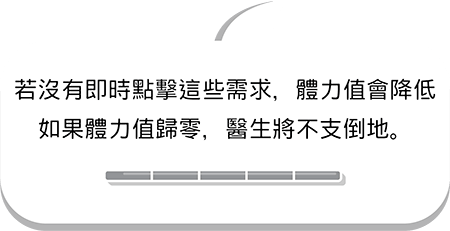
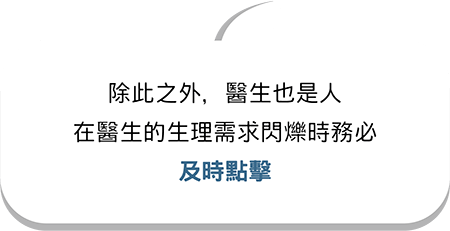
update tutorial; add start info and click info

Changed region(s): [[0.0311, 0.3333, 0.9644, 0.4545], [0.0622, 0.4848, 0.9022, 0.6364], [0.2178, 0.6667, 0.7778, 0.8182]]

diff --git a/index.js b/index.js
@@ -1,1 +1,1 @@
-var ref$,w,h,patw,path,of1x,of1y,dpw,dph,x$,mouse;ref$=[1170,658],w=ref$[0],h=ref$[1],ref$=[193,278],patw=ref$[0],path=ref$[1],ref$=[298,273],of1x=ref$[0],of1y=ref$[1],ref$=[59,20],dpw=ref$[0],dph=ref$[1],x$=angular.module("ERGame",[]),x$.controller("ERGame",["$scope","$interval","$timeout"].concat(function(t,e,n){var r,i,a,o,s,u,c,d,l,p,h,f,g,m,y,v,w,x;for(r=[],i=0;12>i;++i)a=i,r.push([a%4,parseInt(a/4)]);return t.list=r,t.danger=!1,t.pixel={scene:{w:1170,h:658},sprite:{size:[{w:0,h:0},{w:101,h:142},{w:108,h:229},{w:108,h:229},{w:291,h:245},{w:316,h:269},{w:105,h:196},{w:146,h:239},{w:98,h:60},{w:306,h:298},{w:191,h:240},{w:104,h:136},{w:238,h:184}],points:[{x:591,y:-19,type:6}].concat([{x:317,y:2,type:5}],[{x:687,y:-36,type:7}],[{x:507,y:54,type:9,variant:1}],[{x:249,y:184,type:11}],function(){var t,e,n=[];for(t=0;3>t;++t)for(o=t,e=0;4>e;++e)s=e,n.push({x:293+59*s+-127*o,y:222+20*s+47*o,type:1,variant:0,active:1});return n}(),[{x:857,y:100,type:4,variant:0,active:1}],[{x:870,y:272,type:12}],function(){var t,e=[];for(t=0;5>t;++t)a=t,e.push({x:749+66*a,y:227+24*a,type:2,variant:0,active:1});return e}(),[{x:623,y:279,type:3,variant:0,active:1},{x:520,y:341,type:10},{x:730,y:387,type:4,variant:0,active:1},{x:335,y:387,type:4,variant:0,active:1},{x:493,y:418,type:3,variant:0,active:1},{x:678,y:418,type:2,variant:0,active:1}])}},t.percent={sprite:{size:function(){var e,n,r,i=[];for(e=0,r=(n=t.pixel.sprite.size).length;r>e;++e)u=n[e],i.push({w:100*u.w/t.pixel.scene.w,h:100*u.h/t.pixel.scene.h});return i}(),points:function(){var e,n,r,i=[];for(e=0,r=(n=t.pixel.sprite.points).length;r>e;++e)u=n[e],i.push({x:100*u.x/t.pixel.scene.w,y:100*u.y/t.pixel.scene.h,type:u.type,variant:u.variant,active:u.active});return i}()}},t.rebuild=function(e){var n,r,i,a=[];for(n=0,i=(r=t.percent.sprite.points).length;i>n;++n)e=r[n],a.push(e.cls=["it-"+e.type+"-"+(e.variant||0)+"-"+(e.active||0)]);return a},t.game={state:0,over:function(){return this.setState(4),n(function(){var e;return e=parseInt(t.doctor.score.value/10),e>=6&&e--,t.doctor.rank=e},500)},setState:function(t){return this.state=t},start:function(){return this.setState(2),t.audio.bk()},reset:function(){return $("#wheel").css({display:"none"}),t.patient.reset(),t.doctor.reset(),t.supply.reset(),t.mouse.reset(),t.audio.reset(),t.rebuild(),t.madmax=0,t.dialog.toggle(null,!1),this.state=0},countdown:{handler:null,value:0,count:function(){var e=this;return this.value=this.value-1,this.value>0&&t.audio["count"+(1===this.value?2:1)](),this.value?n(function(){return e.count()},650):(t.game.setState(2),t.audio.bk())},start:function(){return t.game.setState(5),this.value=5,this.count()}}},t.doctor={sprite:t.percent.sprite.points.filter(function(t){return 9===t.type})[0],handler:null,energy:1,faint:!1,demading:0,chance:5,hurting:0,draining:0,rank:0,drain:function(){var e;return e=this,e.energy-=.2,e.energy>=0||(e.energy=0),e.draining=1,t.doctor.energy<=1e-4?(t.doctor.faint=!0,t.doctor.demading=0):void 0},fail:function(){var e;return e=this,e.setMood(7),e.chance-=1,e.chance>=0||(e.chance=0),e.hurting=1,this.chance<=0&&t.game.over(),t.audio.die()},reset:function(){return this.rank=0,this.energy=1,this.faint=!1,this.chance=5,this.hurting=0,this.draining=0,this.handler&&n.cancel(this.handler),this.score.value=0,this.score.digit=[0,0,0,0],this.setMood(1)},score:{digit:[0,0,0,0],value:0},resetLater:function(){var e=this;return this.handler&&n.cancel(this.handler),this.handler=n(function(){return e.setMood(1),e.handler=null,t.rebuild()},1e3)},setMood:function(t){return this.sprite.variant=t,t>1?this.resetLater():void 0}},t.$watch("doctor.score.value",function(){var e,n,r,i=[];for(e=t.doctor.score,n=0;4>n;++n)r=n,i.push(e.digit[3-r]=parseInt(e.value/Math.pow(10,r))%Math.pow(10,r+1));return i}),t.supply={sprite:t.percent.sprite.points.filter(function(t){var e;return 5===(e=t.type)||6===e||7===e}),reset:function(){var t,e,n,r,i=[];for(t=0,n=(e=this.sprite).length;n>t;++t)r=e[t],i.push((r.active=0,r.countdown=-1,r));return i},active:function(t,e){var n,r,i;return null==e&&(e=!0),n=null==t?parseInt(Math.random()*this.sprite.length):t,e?this.sprite[n].active?void 0:(this.sprite[n].active=1,this.sprite[n].countdown=1):(this.sprite[n].active=0,i=(r=this.sprite[n]).countdown,delete r.countdown,i)}},t.patient={urgent:0,updateUrgent:function(){return this.urgent=t.percent.sprite.points.filter(function(t){return 1===t.type&&3===t.variant}).length},reset:function(){var e,n,r,i,a=[];for(e=t.percent.sprite.points.filter(function(t){return t.type>=1&&t.type<=4}),n=0,r=e.length;r>n;++n)i=e[n],a.push((i.variant=0,i.mad=0,i.life=1,i));return a},add:function(e,n,r){var i,a,o,s,u,c;return i=t.percent.sprite.points.filter(function(t){return t.type===e&&0===t.variant}),0!==i.length?(a=parseInt(3*Math.random()+1),1===e?(o=Math.random(),a=o<t.config.cur.patprob[0]?1:o<t.config.cur.patprob[1]?2:3,t.audio.born()):a=parseInt(2*Math.random()+1),e>1&&(2>=a||(a=2)),null!=n&&(a=n),s=null!=r?r:parseInt(Math.random()*i.length),u=i[s],u.variant=a,1===u.type&&3===u.variant&&this.urgent++,1===u.type&&(u.life=1),(2===(c=u.type)||3===c||4===c)&&(u.mad=0),t.rebuild()):void 0}},t.config={cur:{pat:.05,sup:.01,patprob:[.6,.95],mad:.001,supdelay:.015},setting:[{pat:.02,sup:.01,patprob:[.6,.95],mad:.001,supdelay:.015},{pat:.07,sup:.04,patprob:[.5,.8],mad:.003,supdelay:.02},{pat:.15,sup:.11,patprob:[.25,.3],mad:.006,supdelay:.025},{pat:.22,sup:.15,patprob:[.1,.25],mad:.008,supdelay:.03}]},t.mouse={x:0,y:0,target:null,reset:function(){return this.target=null},lock:function(){return this.isLocked=!0},unlock:function(){return this.isLocked=!1},timestamp:0,isPalOn:!1,down:function(e,n){var r,i,a,o,s,u,d,l,p,h,f,g,m;if(!c()){if(t.madmax||t.doctor.faint)return t.demad(e);if(!this.isLocked&&!this.isPalOn&&(r=$("#wrapper").offset(),i=[e.clientX||e.pageX,e.clientY||e.pageY],a=i[0],o=i[1],i=[a-r.left,o-r.top],this.x=i[0],this.y=i[1],i=i,s=i[0],u=i[1],d=1024*s/$("#wrapper").width(),l=576*u/$("#wrapper").height(),n=t.hitmask.resolve(d,l))){if(1===n.type){if(0===n.variant)return;for(p=t.percent.sprite.points.filter(function(t){return 1===t.type}),h=0,f=0,g=p.length;g>f;++f)m=p[f],m.variant>h&&(h=m.variant);if(3===h&&n.variant<h)return void(this.target=null)}if(this.target=n,n&&1===n.type)return $("#wheel").css({display:"block",top:u+"px",left:s+"px"}),t.audio.blop(),t.rebuild(),this.timestamp=(new Date).getTime(),this.isPalOn=!0}}},up:function(e){var n,r=this;if(!c()&&!(this.isLocked||t.madmax||t.doctor.faint||(n=(new Date).getTime(),n-this.timestamp<100)))return setTimeout(function(){var n,i,a,o,s,u,c,d,l;return r.isPalOn=!1,$("#wheel").css({display:"none"}),n=$("#wrapper").offset(),i=[e.clientX||e.pageX,e.clientY||e.pageY],a=i[0],o=i[1],i=[a-r.x-n.left,o-r.y-n.top],s=i[0],u=i[1],c=360*Math.acos(s/Math.sqrt(Math.pow(s,2)+Math.pow(u,2)))/(2*Math.PI),u>0&&(c=360-c),(c>=320||10>=c)&&(d=3),c>10&&61>=c&&(d=2),c>61&&112>c&&(d=1),r.target&&(1===r.target.type?(r.target.variant===d?(1===r.target.variant?(l=Math.random()<.5?2:4+parseInt(3*Math.random()),null!=r.forceMood&&(l=r.forceMood),t.doctor.setMood(l),t.audio.dindon(),2===l&&(t.doctor.score.value+=1)):(null==r.forceStay&&Math.random()>.5?(t.doctor.setMood(3),t.patient.add(parseInt(3*Math.random()+2))):r.forceStay?(t.doctor.setMood(3),t.patient.add(4,2,0)):t.doctor.setMood(2),t.audio.dindon(),t.doctor.score.value+=1),3===d&&(r.target.variant=0,t.patient.updateUrgent())):t.doctor.fail(),r.target.variant=0,t.rebuild()):r.target.type>=2&&r.target.type<=4&&r.target.variant?(r.target.mad>.8&&(r.target.mad=.8),(i=r.target).mad<=.8||(i.mad=.8),r.target.mad-=.2,(i=r.target).mad>=0||(i.mad=0),t.audio.click2()):r.target.type>=5&&r.target.type<=8&&r.target.active&&(t.doctor.energy+=.1,(i=t.doctor).energy<=1||(i.energy=1),t.doctor.setMood(2),t.rebuild(),r.target.active=0,r.target.countdown=1,t.audio.click2())),r.target=null},0)}},t.madmax=0,t.demad=function(e){var n,r,i,a,o,s;return n=100,r=t.percent.sprite.points.filter(function(t){return t.ismad}),r.length||(t.madmax=0),r.length?((i=r[0]).mad<=.8||(i.mad=.8),r[0].mad-=.1,(i=r[0]).mad>=0||(i.mad=0),r[0].mad<=0&&delete r[0].ismad,a=r.map(function(t){return 1-t.mad}).reduce(function(t,e){return t+e},0),o=r.length,n=100*a/o):t.doctor.faint&&(s=t.doctor,s.energy+=.1,s.energy<=1||(s.energy=1),t.doctor.energy>=.9999&&(t.doctor.faint=!1),n=100*t.doctor.energy),e.preventDefault(),t.audio.click2(),t.doctor.demading=n,!1},t.rebuild(),c=function(){return 2!==t.game.state&&3!==t.game.state||t.dialog.show===!0?!0:t.danger?!0:!1},e(function(){var e,n;return t.dialog.tut||1!==(e=t.game.state)&&2!==e&&4!==e?(n=(new Date).getTime()/1e3-t.audio.bkt,void(n>=9.1&&(t.audio.bkt=parseInt((new Date).getTime()/1e3),t.audio.bk()))):(n=(new Date).getTime()/1e3-t.audio.bkt,60>=n?t.config.cur=t.config.setting[0]:98>=n?t.config.cur=t.config.setting[1]:n>=98&&101>=n?t.danger=!0:120>=n?(t.danger=!1,t.config.cur=t.config.setting[2]):t.config.cur=t.config.setting[3],c()?void 0:(Math.random()<t.config.cur.pat&&t.patient.add(1),Math.random()<t.config.cur.sup&&t.supply.active(),0===t.percent.sprite.points.filter(function(t){return 1===t.type&&0!==t.variant}).length&&Math.random()>.8&&t.patient.add(1),t.madspeed=t.config.cur.mad))},100),t.madspeed=.002,e(function(e){var n,r,i,a,o,s,u=[];if(!c()){for(t.doctor.hurting&&(t.doctor.hurting-=.2,(n=t.doctor).hurting>=0||(n.hurting=0)),t.doctor.draining&&(t.doctor.draining-=.2,(n=t.doctor).draining>=0||(n.draining=0)),r=t.percent.sprite.points.filter(function(t){return 1===t.type&&t.variant>0}),i=!1,a=0,o=r.length;o>a;++a)e=r[a],e.life-=.004*e.variant,e.life<=0&&(e.life=0,t.doctor.fail(),e.variant=0,i=!0);for(i&&t.patient.updateUrgent(),r=t.percent.sprite.points.filter(function(t){var e;return(2===(e=t.type)||3===e||4===e)&&t.variant>0}),s=0,a=0,o=r.length;o>a;++a)e=r[a],null==e.mad&&(e.mad=0),e.mad+=t.madspeed,e.mad>=.8&&(e.mad=1,e.ismad=!0,s=1);if(s&&!t.madmax&&(t.madmax=parseInt(2*Math.random()+1),t.doctor.demading=0),!t.doctor.faint){for(r=t.percent.sprite.points.filter(function(t){var e;return(5===(e=t.type)||6===e||7===e||8===e)&&t.active}),a=0,o=r.length;o>a;++a)e=r[a],(null==e.countdown||e.countdown<=0)&&(e.countdown=1),e.countdown-=t.config.cur.supdelay,e.countdown<=0&&(e.countdown=1,e.active=0,u.push(t.doctor.drain()));return u}}},100),t.$watch("madmax",function(t){return t?$("#wheel").css({display:"none"}):void 0}),t.hitmask={ready:!1,get:function(t,e){return!this.ready||null==t||null==e||isNaN(t)||isNaN(e)?[0,0,0,0]:this.ctx.getImageData(t,e,1,1).data},resolve:function(e,n){var r,i,a;return r=this.get(e,n),i=r[0],8===i&&(i=5),0===i?null:(a=1===i?4*r[1]+r[2]:r[2],t.percent.sprite.points.filter(function(t){return t.type===i})[a])},init:function(){var t,e=this;return t=this.canvas=document.createElement("canvas"),t.height=576,t.width=1024,this.ctx=this.canvas.getContext("2d"),this.img=new Image,this.img.src="mask.png",this.img.onload=function(){return e.ctx.drawImage(e.img,0,0,1024,576),e.ready=!0}}},t.hitmask.init(),t.dialog={tut:!0,show:!1,idx:0,next:function(){var t=this;return n(function(){return t.main(!0)},200)},type:"",h:{i:[],t:[]},skip:function(t){var r,i,a,o;for(null==t&&(t=!1),r=0,a=(i=this.h.i).length;a>r;++r)o=i[r],e.cancel(o);for(r=0,a=(i=this.h.t).length;a>r;++r)o=i[r],n.cancel(o);return t||this.clean(),this.idx===this.step.length-2?this.next():(this.idx=this.step.length-2,this.type="",t?this.toggle(0,!0):void 0)},interval:function(t,n){var r;return r=e(t,n),this.h.i.push(r),r},timeout:function(t,e){var r;return r=n(t,e),this.h.t.push(r),r},clean:function(){var e;return delete t.mouse.forceStay,delete t.mouse.forceMood,t.game.reset(),t.dialog.tut=!1,t.mouse.unlock(),$("#score").removeClass("hint"),e=t.doctor,e.chance=5,e.hurting=0,e.faint=!1,e.energy=1,e.setMood(2),t.game.setState(2),t.game.countdown.start()},step:[{},{ready:!1,check:function(){return this.ready||2!==t.game.state||(t.game.state=3,this.ready=!0),this.ready},fire:function(){return t.mouse.forceStay=!1,t.mouse.forceMood=1,t.mouse.lock(),t.dialog.timeout(function(){return t.patient.add(1,1,0)},1e3),t.dialog.timeout(function(){return t.patient.add(1,2,0)},2e3),t.dialog.timeout(function(){return t.patient.add(1,3,0)},3e3)}},{ready:!1,check:function(){var e=this;return this.ready?!0:(t.percent.sprite.points.filter(function(t){return 1===t.type&&3===t.variant}).length>0&&t.dialog.timeout(function(){return e.ready=!0},1e3),!1)}},{check:function(){return!0}},{check:function(){return!0},fire:function(){return $("#finger-slide").css({display:"block",top:"33%",left:"22%"}),setTimeout(function(){return $("#finger-slide").css({display:"none"}),t.mouse.unlock()},3e3)}},{check:function(){var e,n=this;return e=0===t.percent.sprite.points.filter(function(t){return 1===t.type&&0!==t.variant}).length,e&&(t.dialog.type="mini",this.handler=t.dialog.timeout(function(){return t.doctor.fail(),n.handler=null},500)),e},fire:function(){var e;return e=t.doctor,e.chance=5,e.hurting=0,this.handler?n.cancel(this.handler):void 0}},{check:function(){return $("#score").addClass("hint"),!0},fire:function(){return $("#score").removeClass("hint")}},{mood:0,check:function(){var e=this;return null==this.handler&&(this.handler=t.dialog.interval(function(){return t.doctor.setMood(e.mood+4),t.rebuild(),e.mood=(e.mood+1)%3},500)),!0},fire:function(){return t.doctor.setMood(1),t.rebuild(),e.cancel(this.handler),t.mouse.forceStay=!0,t.patient.add(1,2,0)}},{mood:3,ready:!1,handler:null,moodHandler:null,check:function(){var e,n,r=this;return e=t.percent.sprite.points.filter(function(t){return 4===t.type&&t.variant>0}).length>0,n=t.percent.sprite.points.filter(function(t){return 1===t.type&&2===t.variant}).length>0,e&&null==this.handler&&(this.handler=t.dialog.timeout(function(){return r.ready=!0},1e3)),e||n||t.patient.add(1,2,parseInt(1+4*Math.random())),this.ready&&!this.moodHandler&&(this.moodHandler=t.dialog.interval(function(){return t.doctor.setMood(r.mood),t.rebuild(),r.mood=4-r.mood},500)),this.ready},fire:function(){return e.cancel(this.moodHandler),$("#finger-tap").css({display:"block",top:"22%",left:"68%"}),t.madspeed=.02,t.dialog.timeout(function(){return $("#finger-tap").css({display:"none"})},1300)}},{ready:!1,handler:null,check:function(){var e=this;return.02!==t.madspeed||"none"!==$("#finger-tap").css("display")||this.handler||(this.handler=t.dialog.timeout(function(){return e.ready=!0},2e3)),this.ready},fire:function(){return t.mouse.lock()}},{launched:0,supply:0,ready:!1,check:function(){var e=this;return t.madmax>=1&&0===this.launched&&(this.launched=1,$("#finger-tap").css({display:"block",top:"30%",left:"30%"}),t.madspeed=.002,t.dialog.timeout(function(){return $("#finger-tap").css({display:"none"})},1e3)),.002===t.madspeed&&t.madmax<1&&1===this.launched&&(this.launched=2,t.percent.sprite.points.filter(function(t){return 4===t.type})[0].mad=0,t.dialog.timeout(function(){return e.handler=t.dialog.interval(function(){return t.supply.active(e.supply,!1),e.supply=(e.supply+1)%3,t.supply.active(e.supply)},500),$("#arrow").css({display:"block",top:"25%",left:"35%"}),e.ready=!0},1e3)),this.ready},fire:function(){return e.cancel(this.handler),t.supply.active(0,!1),t.supply.active(1,!0),t.supply.active(2,!1),$("#arrow").css({display:"none"}),$("#finger-tap").css({display:"block",top:"7%",left:"20%"}),t.dialog.timeout(function(){return $("#finger-tap").css({display:"none"}),t.mouse.unlock()},1e3)}},{ready:!1,handler:!1,check:function(){var e=this;return this.handler||(this.handler=t.dialog.timeout(function(){return e.ready=!0,t.supply.active(1,!1),t.doctor.setMood(7),t.rebuild(),t.doctor.energy-=.1,$("#arrow").css({display:"block",top:"10%",left:"31%"})},3e3)),this.ready},fire:function(){return $("#arrow").css({display:"none"}),t.doctor.energy=0,t.doctor.faint=!0,t.doctor.demading=0,$("#finger-tap").css({display:"block",top:"20%",left:"30%"}),t.dialog.timeout(function(){return $("#finger-tap").css({display:"none"})},1e3)}},{ready:!1,check:function(){var e=this;return null==this.handler&&t.doctor.energy>=.999&&t.doctor.faint===!1&&(this.handler=t.dialog.timeout(function(){return e.ready=!0,t.dialog.type=""},1e3)),this.ready},fire:function(){return t.dialog.clean()}},{check:function(){return!1}}],main:function(t){return null==t&&(t=!1),t&&this.step[this.idx]&&this.step[this.idx].fire&&!this.step[this.idx].fired&&(this.step[this.idx].fire(),this.step[this.idx].fired=!0),!this.show||t?this.step[this.idx+1]&&this.step[this.idx+1].check()?this.toggle(this.idx+1,!0):this.toggle(0,!1):void 0},toggle:function(e,n){var r=this;return e&&(this.idx=e),setTimeout(function(){return r.show=null==n?!r.show:n,r.show?($("#dialog").fadeIn(),t.audio.menu()):$("#dialog").fadeOut()},0)}},t.scream=gajus.Scream({width:{portrait:320,landscape:480}}),e(function(){var e;t.dialog.main();try{e=t.scream.isMinimalView()}catch(n){}return t.ismin&&!e&&(document.body.scrollTop=0,$("#minimal-fix").css({display:"block"})),e&&$("#minimal-fix").css({display:"none"}),t.ismin=e},100),d=[$(document).width(),$(document).height()-50],l=d[0],p=d[1],d=[1024,576],h=d[0],f=d[1],d=1024>l?[l,576*l/1024]:[1024,576],g=d[0],m=d[1],d=576>p?[1024*p/576,p]:[1024,576],y=d[0],v=d[1],d=m>p?[y,v]:[g,v],w=d[0],x=d[1],$("#frame").css({width:w+"px",height:x+(480>x?0:10)+"px"}),$("#container").css({width:w+"px"}),$("body").css({overflow:"hidden"}),480>x&&($("#frame").css({padding:0}),$("#head").css({display:"none"}),$("#foot").css({display:"none"})),document.ontouchmove=function(e){return t.ismin?e.preventDefault():void 0},t.audio={s:{},buf:{},names:["amb","click","count1","count2","blop","die","menu","sel","dindon","born","click2","bk"],reset:function(){var t,e,n,r,i=[];for(t=0,n=(e=this.names).length;n>t;++t)r=e[t],i.push(this.s[r].pause());return i},n:{},bkt:0,player:function(t){var e,n=this;return e=function(r){var i;if(n.buf[t])return n.n[t]&&n.n[t].disconnect(),n.n[t]=i=n.context.createBufferSource(),i.buffer=n.buf[t],i.connect(n.context.destination),e.pausetime&&(r=e.pausetime-e.starttime,delete e.pausetime),e.starttime=parseInt((new Date).getTime()/1e3)-(null!=r?r:0),null!=r?i.start(0,r):i.start(0),"bk"===t?n.bkt=parseInt((new Date).getTime()/1e3):void 0},e.pause=function(){return n.n[t].stop(),e.pausetime=parseInt((new Date).getTime()/1e3)},e},load:function(e,r){var i,a=this;return i=new XMLHttpRequest,i.open("GET",r,!0),i.responseType="arraybuffer",i.onload=function(){return a.context.decodeAudioData(i.response,function(r){return a.buf[e]=r,setTimeout(function(){return t.$apply(function(){var e;return t.progress=parseInt(100*function(){var t=[];for(e in this.buf)t.push(e);return t}.call(a).length/a.names.length),t.progress>=100?n(function(){return t.loading=!1},500):void 0})},500)},function(){return console.log("fail")})},i.send()},init:function(){function e(){}function n(){}function r(){}var i,a,o,s,u,c,d=[];if(i=window.AudioContext||window.webkitAudioContext,!i){for(a=0,s=(o=this.names).length;s>a;++a)u=o[a],this[u]=e,this[u].pause=n,this.s[u]={pause:r};return t.progress=100,void(t.loading=!1)}for(this.context=new i,a=0,s=(o=this.names).length;s>a;++a)u=o[a],c=this.s[u]=new Audio,c.src="snd/"+u+".mp3",this[u]=this.player(u),d.push(this.load(u,"snd/"+u+".mp3"));return d}},t.progress=0,t.loading=!0,t.audio.init()})),mouse={down:function(t){return angular.element("#wrapper").scope().mouse.down(t)},up:function(t){return angular.element("#wrapper").scope().mouse.up(t)}};
+var ref$,w,h,patw,path,of1x,of1y,dpw,dph,x$,mouse;ref$=[1170,658],w=ref$[0],h=ref$[1],ref$=[193,278],patw=ref$[0],path=ref$[1],ref$=[298,273],of1x=ref$[0],of1y=ref$[1],ref$=[59,20],dpw=ref$[0],dph=ref$[1],x$=angular.module("ERGame",[]),x$.controller("ERGame",["$scope","$interval","$timeout"].concat(function(t,e,n){var r,i,a,o,s,u,c,d,l,p,h,f,g,m,y,v,w,x;for(r=[],i=0;12>i;++i)a=i,r.push([a%4,parseInt(a/4)]);return t.list=r,t.danger=!1,t.pixel={scene:{w:1170,h:658},sprite:{size:[{w:0,h:0},{w:101,h:142},{w:108,h:229},{w:108,h:229},{w:291,h:245},{w:316,h:269},{w:105,h:196},{w:146,h:239},{w:98,h:60},{w:306,h:298},{w:191,h:240},{w:104,h:136},{w:238,h:184}],points:[{x:591,y:-19,type:6}].concat([{x:317,y:2,type:5}],[{x:687,y:-36,type:7}],[{x:507,y:54,type:9,variant:1}],[{x:249,y:184,type:11}],function(){var t,e,n=[];for(t=0;3>t;++t)for(o=t,e=0;4>e;++e)s=e,n.push({x:293+59*s+-127*o,y:222+20*s+47*o,type:1,variant:0,active:1});return n}(),[{x:857,y:100,type:4,variant:0,active:1}],[{x:870,y:272,type:12}],function(){var t,e=[];for(t=0;5>t;++t)a=t,e.push({x:749+66*a,y:227+24*a,type:2,variant:0,active:1});return e}(),[{x:623,y:279,type:3,variant:0,active:1},{x:520,y:341,type:10},{x:730,y:387,type:4,variant:0,active:1},{x:335,y:387,type:4,variant:0,active:1},{x:493,y:418,type:3,variant:0,active:1},{x:678,y:418,type:2,variant:0,active:1}])}},t.percent={sprite:{size:function(){var e,n,r,i=[];for(e=0,r=(n=t.pixel.sprite.size).length;r>e;++e)u=n[e],i.push({w:100*u.w/t.pixel.scene.w,h:100*u.h/t.pixel.scene.h});return i}(),points:function(){var e,n,r,i=[];for(e=0,r=(n=t.pixel.sprite.points).length;r>e;++e)u=n[e],i.push({x:100*u.x/t.pixel.scene.w,y:100*u.y/t.pixel.scene.h,type:u.type,variant:u.variant,active:u.active});return i}()}},t.rebuild=function(e){var n,r,i,a=[];for(n=0,i=(r=t.percent.sprite.points).length;i>n;++n)e=r[n],a.push(e.cls=["it-"+e.type+"-"+(e.variant||0)+"-"+(e.active||0)]);return a},t.game={state:0,over:function(){return this.setState(4),n(function(){var e;return e=parseInt(t.doctor.score.value/10),e>=6&&e--,t.doctor.rank=e},500)},setState:function(t){return this.state=t},start:function(){return this.setState(2),t.audio.bk()},reset:function(){return $("#wheel").css({display:"none"}),t.patient.reset(),t.doctor.reset(),t.supply.reset(),t.mouse.reset(),t.audio.reset(),t.rebuild(),t.madmax=0,t.dialog.toggle(null,!1),this.state=0},countdown:{handler:null,value:0,count:function(){var e=this;return this.value=this.value-1,this.value>0&&t.audio["count"+(1===this.value?2:1)](),this.value?n(function(){return e.count()},650):(t.game.setState(2),t.audio.bk())},start:function(){return t.game.setState(5),this.value=5,this.count()}}},t.doctor={sprite:t.percent.sprite.points.filter(function(t){return 9===t.type})[0],handler:null,energy:1,faint:!1,demading:0,chance:5,hurting:0,draining:0,rank:0,drain:function(){var e;return e=this,e.energy-=.2,e.energy>=0||(e.energy=0),e.draining=1,t.doctor.energy<=1e-4?(t.doctor.faint=!0,t.doctor.demading=0):void 0},fail:function(){var e;return e=this,e.setMood(7),e.chance-=1,e.chance>=0||(e.chance=0),e.hurting=1,this.chance<=0&&t.game.over(),t.audio.die()},reset:function(){return this.rank=0,this.energy=1,this.faint=!1,this.chance=5,this.hurting=0,this.draining=0,this.handler&&n.cancel(this.handler),this.score.value=0,this.score.digit=[0,0,0,0],this.setMood(1)},score:{digit:[0,0,0,0],value:0},resetLater:function(){var e=this;return this.handler&&n.cancel(this.handler),this.handler=n(function(){return e.setMood(1),e.handler=null,t.rebuild()},1e3)},setMood:function(t){return this.sprite.variant=t,t>1?this.resetLater():void 0}},t.$watch("doctor.score.value",function(){var e,n,r,i=[];for(e=t.doctor.score,n=0;4>n;++n)r=n,i.push(e.digit[3-r]=parseInt(e.value/Math.pow(10,r))%Math.pow(10,r+1));return i}),t.supply={sprite:t.percent.sprite.points.filter(function(t){var e;return 5===(e=t.type)||6===e||7===e}),reset:function(){var t,e,n,r,i=[];for(t=0,n=(e=this.sprite).length;n>t;++t)r=e[t],i.push((r.active=0,r.countdown=-1,r));return i},active:function(t,e){var n,r,i;return null==e&&(e=!0),n=null==t?parseInt(Math.random()*this.sprite.length):t,e?this.sprite[n].active?void 0:(this.sprite[n].active=1,this.sprite[n].countdown=1):(this.sprite[n].active=0,i=(r=this.sprite[n]).countdown,delete r.countdown,i)}},t.patient={urgent:0,updateUrgent:function(){return this.urgent=t.percent.sprite.points.filter(function(t){return 1===t.type&&3===t.variant}).length},reset:function(){var e,n,r,i,a=[];for(e=t.percent.sprite.points.filter(function(t){return t.type>=1&&t.type<=4}),n=0,r=e.length;r>n;++n)i=e[n],a.push((i.variant=0,i.mad=0,i.life=1,i));return a},add:function(e,n,r){var i,a,o,s,u,c;return i=t.percent.sprite.points.filter(function(t){return t.type===e&&0===t.variant}),0!==i.length?(a=parseInt(3*Math.random()+1),1===e?(o=Math.random(),a=o<t.config.cur.patprob[0]?1:o<t.config.cur.patprob[1]?2:3,t.audio.born()):a=parseInt(2*Math.random()+1),e>1&&(2>=a||(a=2)),null!=n&&(a=n),s=null!=r?r:parseInt(Math.random()*i.length),u=i[s],u.variant=a,1===u.type&&3===u.variant&&this.urgent++,1===u.type&&(u.life=1),(2===(c=u.type)||3===c||4===c)&&(u.mad=0),t.rebuild()):void 0}},t.config={cur:{pat:.05,sup:.01,patprob:[.6,.95],mad:.001,supdelay:.015},setting:[{pat:.02,sup:.01,patprob:[.6,.95],mad:.001,supdelay:.015},{pat:.07,sup:.04,patprob:[.5,.8],mad:.003,supdelay:.02},{pat:.15,sup:.11,patprob:[.25,.3],mad:.006,supdelay:.025},{pat:.22,sup:.15,patprob:[.1,.25],mad:.008,supdelay:.03}]},t.mouse={x:0,y:0,target:null,reset:function(){return this.target=null},lock:function(){return this.isLocked=!0},unlock:function(){return this.isLocked=!1},timestamp:0,isPalOn:!1,down:function(e,n){var r,i,a,o,s,u,d,l,p,h,f,g,m;if(!c()){if(t.madmax||t.doctor.faint)return t.demad(e);if(!this.isLocked&&!this.isPalOn&&(r=$("#wrapper").offset(),i=[e.clientX||e.pageX,e.clientY||e.pageY],a=i[0],o=i[1],i=[a-r.left,o-r.top],this.x=i[0],this.y=i[1],i=i,s=i[0],u=i[1],d=1024*s/$("#wrapper").width(),l=576*u/$("#wrapper").height(),n=t.hitmask.resolve(d,l))){if(1===n.type){if(0===n.variant)return;for(p=t.percent.sprite.points.filter(function(t){return 1===t.type}),h=0,f=0,g=p.length;g>f;++f)m=p[f],m.variant>h&&(h=m.variant);if(3===h&&n.variant<h)return void(this.target=null)}if(this.target=n,n&&1===n.type)return $("#wheel").css({display:"block",top:u+"px",left:s+"px"}),t.audio.blop(),t.rebuild(),this.timestamp=(new Date).getTime(),this.isPalOn=!0}}},up:function(e){var n,r=this;if(!c()&&!(this.isLocked||t.madmax||t.doctor.faint||(n=(new Date).getTime(),n-this.timestamp<100)))return setTimeout(function(){var n,i,a,o,s,u,c,d,l;return r.isPalOn=!1,$("#wheel").css({display:"none"}),n=$("#wrapper").offset(),i=[e.clientX||e.pageX,e.clientY||e.pageY],a=i[0],o=i[1],i=[a-r.x-n.left,o-r.y-n.top],s=i[0],u=i[1],c=360*Math.acos(s/Math.sqrt(Math.pow(s,2)+Math.pow(u,2)))/(2*Math.PI),u>0&&(c=360-c),(c>=320||10>=c)&&(d=3),c>10&&61>=c&&(d=2),c>61&&112>c&&(d=1),r.target&&(1===r.target.type?(r.target.variant===d?(1===r.target.variant?(l=Math.random()<.5?2:4+parseInt(3*Math.random()),null!=r.forceMood&&(l=r.forceMood),t.doctor.setMood(l),t.audio.dindon(),2===l&&(t.doctor.score.value+=1)):(null==r.forceStay&&Math.random()>.5?(t.doctor.setMood(3),t.patient.add(parseInt(3*Math.random()+2))):r.forceStay?(t.doctor.setMood(3),t.patient.add(4,2,0)):t.doctor.setMood(2),t.audio.dindon(),t.doctor.score.value+=1),3===d&&(r.target.variant=0,t.patient.updateUrgent())):t.doctor.fail(),r.target.variant=0,t.rebuild()):r.target.type>=2&&r.target.type<=4&&r.target.variant?(r.target.mad>.8&&(r.target.mad=.8),(i=r.target).mad<=.8||(i.mad=.8),r.target.mad-=.2,(i=r.target).mad>=0||(i.mad=0),t.audio.click2()):r.target.type>=5&&r.target.type<=8&&r.target.active&&(t.doctor.energy+=.1,(i=t.doctor).energy<=1||(i.energy=1),t.doctor.setMood(2),t.rebuild(),r.target.active=0,r.target.countdown=1,t.audio.click2())),r.target=null},0)}},t.madmax=0,t.demad=function(e){var n,r,i,a,o,s;return n=100,r=t.percent.sprite.points.filter(function(t){return t.ismad}),r.length||(t.madmax=0),r.length?((i=r[0]).mad<=.8||(i.mad=.8),r[0].mad-=.1,(i=r[0]).mad>=0||(i.mad=0),r[0].mad<=0&&delete r[0].ismad,a=r.map(function(t){return 1-t.mad}).reduce(function(t,e){return t+e},0),o=r.length,n=100*a/o):t.doctor.faint&&(s=t.doctor,s.energy+=.1,s.energy<=1||(s.energy=1),t.doctor.energy>=.9999&&(t.doctor.faint=!1),n=100*t.doctor.energy),e.preventDefault(),t.audio.click2(),t.doctor.demading=n,!1},t.rebuild(),c=function(){return 2!==t.game.state&&3!==t.game.state||t.dialog.show===!0?!0:t.danger?!0:!1},e(function(){var e,n;return t.dialog.tut||1!==(e=t.game.state)&&2!==e&&4!==e?(n=(new Date).getTime()/1e3-t.audio.bkt,void(n>=9.1&&(t.audio.bkt=parseInt((new Date).getTime()/1e3),t.audio.bk()))):(n=(new Date).getTime()/1e3-t.audio.bkt,60>=n?t.config.cur=t.config.setting[0]:98>=n?t.config.cur=t.config.setting[1]:n>=98&&101>=n?t.danger=!0:120>=n?(t.danger=!1,t.config.cur=t.config.setting[2]):t.config.cur=t.config.setting[3],c()?void 0:(Math.random()<t.config.cur.pat&&t.patient.add(1),Math.random()<t.config.cur.sup&&t.supply.active(),0===t.percent.sprite.points.filter(function(t){return 1===t.type&&0!==t.variant}).length&&Math.random()>.8&&t.patient.add(1),t.madspeed=t.config.cur.mad))},100),t.madspeed=.002,e(function(e){var n,r,i,a,o,s,u=[];if(!c()){for(t.doctor.hurting&&(t.doctor.hurting-=.2,(n=t.doctor).hurting>=0||(n.hurting=0)),t.doctor.draining&&(t.doctor.draining-=.2,(n=t.doctor).draining>=0||(n.draining=0)),r=t.percent.sprite.points.filter(function(t){return 1===t.type&&t.variant>0}),i=!1,a=0,o=r.length;o>a;++a)e=r[a],e.life-=.004*e.variant,e.life<=0&&(e.life=0,t.doctor.fail(),e.variant=0,i=!0);for(i&&t.patient.updateUrgent(),r=t.percent.sprite.points.filter(function(t){var e;return(2===(e=t.type)||3===e||4===e)&&t.variant>0}),s=0,a=0,o=r.length;o>a;++a)e=r[a],null==e.mad&&(e.mad=0),e.mad+=t.madspeed,e.mad>=.8&&(e.mad=1,e.ismad=!0,s=1);if(s&&!t.madmax&&(t.madmax=parseInt(2*Math.random()+1),t.doctor.demading=0),!t.doctor.faint){for(r=t.percent.sprite.points.filter(function(t){var e;return(5===(e=t.type)||6===e||7===e||8===e)&&t.active}),a=0,o=r.length;o>a;++a)e=r[a],(null==e.countdown||e.countdown<=0)&&(e.countdown=1),e.countdown-=t.config.cur.supdelay,e.countdown<=0&&(e.countdown=1,e.active=0,u.push(t.doctor.drain()));return u}}},100),t.$watch("madmax",function(t){return t?$("#wheel").css({display:"none"}):void 0}),t.hitmask={ready:!1,get:function(t,e){return!this.ready||null==t||null==e||isNaN(t)||isNaN(e)?[0,0,0,0]:this.ctx.getImageData(t,e,1,1).data},resolve:function(e,n){var r,i,a;return r=this.get(e,n),i=r[0],8===i&&(i=5),0===i?null:(a=1===i?4*r[1]+r[2]:r[2],t.percent.sprite.points.filter(function(t){return t.type===i})[a])},init:function(){var t,e=this;return t=this.canvas=document.createElement("canvas"),t.height=576,t.width=1024,this.ctx=this.canvas.getContext("2d"),this.img=new Image,this.img.src="mask.png",this.img.onload=function(){return e.ctx.drawImage(e.img,0,0,1024,576),e.ready=!0}}},t.hitmask.init(),t.dialog={tut:!0,show:!1,idx:0,next:function(){var t=this;return n(function(){return t.main(!0)},200)},type:"",h:{i:[],t:[]},skip:function(t){var r,i,a,o;for(null==t&&(t=!1),r=0,a=(i=this.h.i).length;a>r;++r)o=i[r],e.cancel(o);for(r=0,a=(i=this.h.t).length;a>r;++r)o=i[r],n.cancel(o);return t||this.clean(),this.idx===this.step.length-2?this.next():(this.idx=this.step.length-2,this.type="",t?this.toggle(0,!0):void 0)},interval:function(t,n){var r;return r=e(t,n),this.h.i.push(r),r},timeout:function(t,e){var r;return r=n(t,e),this.h.t.push(r),r},clean:function(){var e;return delete t.mouse.forceStay,delete t.mouse.forceMood,t.game.reset(),t.dialog.tut=!1,t.mouse.unlock(),$("#score").removeClass("hint"),e=t.doctor,e.chance=5,e.hurting=0,e.faint=!1,e.energy=1,e.setMood(2),t.game.setState(2),t.game.countdown.start()},step:[{},{ready:!1,check:function(){return this.ready||2!==t.game.state||(t.game.state=3,this.ready=!0),this.ready},fire:function(){return t.mouse.forceStay=!1,t.mouse.forceMood=1,t.mouse.lock(),t.dialog.timeout(function(){return t.patient.add(1,1,0)},1e3),t.dialog.timeout(function(){return t.patient.add(1,2,0)},2e3),t.dialog.timeout(function(){return t.patient.add(1,3,0)},3e3)}},{ready:!1,check:function(){var e=this;return this.ready?!0:(t.percent.sprite.points.filter(function(t){return 1===t.type&&3===t.variant}).length>0&&t.dialog.timeout(function(){return e.ready=!0},1e3),!1)}},{check:function(){return!0}},{check:function(){return!0},fire:function(){return $("#finger-slide").css({display:"block",top:"33%",left:"22%"}),setTimeout(function(){return $("#finger-slide").css({display:"none"}),t.mouse.unlock()},3e3)}},{check:function(){var e,n=this;return e=0===t.percent.sprite.points.filter(function(t){return 1===t.type&&0!==t.variant}).length,e&&(t.dialog.type="mini",this.handler=t.dialog.timeout(function(){return t.doctor.fail(),n.handler=null},500)),e},fire:function(){var e;return e=t.doctor,e.chance=5,e.hurting=0,this.handler?n.cancel(this.handler):void 0}},{check:function(){return $("#score").addClass("hint"),!0},fire:function(){return $("#score").removeClass("hint")}},{mood:0,check:function(){var e=this;return null==this.handler&&(this.handler=t.dialog.interval(function(){return t.doctor.setMood(e.mood+4),t.rebuild(),e.mood=(e.mood+1)%3},500)),!0},fire:function(){return t.doctor.setMood(1),t.rebuild(),e.cancel(this.handler),t.mouse.forceStay=!0,t.patient.add(1,2,0)}},{mood:3,ready:!1,handler:null,moodHandler:null,check:function(){var e,n,r=this;return e=t.percent.sprite.points.filter(function(t){return 4===t.type&&t.variant>0}).length>0,n=t.percent.sprite.points.filter(function(t){return 1===t.type&&2===t.variant}).length>0,e&&null==this.handler&&(this.handler=t.dialog.timeout(function(){return r.ready=!0},1e3)),e||n||t.patient.add(1,2,parseInt(1+4*Math.random())),this.ready&&!this.moodHandler&&(this.moodHandler=t.dialog.interval(function(){return t.doctor.setMood(r.mood),t.rebuild(),r.mood=4-r.mood},500)),this.ready},fire:function(){return e.cancel(this.moodHandler),$("#finger-tap").css({display:"block",top:"22%",left:"68%"}),t.madspeed=.015,t.dialog.timeout(function(){return $("#finger-tap").css({display:"none"})},1300)}},{ready:!1,handler:null,check:function(){var e=this;return.015!==t.madspeed||"none"!==$("#finger-tap").css("display")||this.handler||(this.handler=t.dialog.timeout(function(){return e.ready=!0},2e3)),this.ready},fire:function(){return t.madspeed=.04,t.mouse.lock()}},{ready:!1,check:function(){var e=this;return t.dialog.timeout(function(){return e.ready=!0},1700),this.ready}},{launched:0,supply:0,ready:!1,check:function(){var e=this;return t.madmax>=1&&0===this.launched&&(this.launched=1,$("#finger-tap").css({display:"block",top:"30%",left:"30%"}),t.madspeed=.002,t.dialog.timeout(function(){return $("#finger-tap").css({display:"none"})},1e3)),.002===t.madspeed&&t.madmax<1&&1===this.launched&&(this.launched=2,t.percent.sprite.points.filter(function(t){return 4===t.type})[0].mad=0,t.dialog.timeout(function(){return e.handler=t.dialog.interval(function(){return t.supply.active(e.supply,!1),e.supply=(e.supply+1)%3,t.supply.active(e.supply)},500),$("#arrow").css({display:"block",top:"25%",left:"35%"}),e.ready=!0},1e3)),this.ready},fire:function(){return e.cancel(this.handler),t.supply.active(0,!1),t.supply.active(1,!0),t.supply.active(2,!1),$("#arrow").css({display:"none"}),$("#finger-tap").css({display:"block",top:"7%",left:"20%"}),t.dialog.timeout(function(){return $("#finger-tap").css({display:"none"}),t.mouse.unlock()},1e3)}},{ready:!1,handler:!1,check:function(){var e=this;return this.handler||(this.handler=t.dialog.timeout(function(){return e.ready=!0,t.supply.active(1,!1),t.doctor.setMood(7),t.rebuild(),t.doctor.energy-=.1,$("#arrow").css({display:"block",top:"10%",left:"31%"})},3e3)),this.ready},fire:function(){}},{check:function(){return!0},fire:function(){return $("#arrow").css({display:"none"}),t.doctor.energy=0,t.doctor.faint=!0,t.doctor.demading=0,$("#finger-tap").css({display:"block",top:"20%",left:"30%"}),t.dialog.timeout(function(){return $("#finger-tap").css({display:"none"})},1e3)}},{ready:!1,check:function(){var e=this;return null==this.handler&&t.doctor.energy>=.999&&t.doctor.faint===!1&&(this.handler=t.dialog.timeout(function(){return t.dialog.type="",e.ready=!0},1e3)),this.ready}},{check:function(){return!0},fire:function(){return t.dialog.clean()}},{check:function(){return!1}}],main:function(t){return null==t&&(t=!1),t&&this.step[this.idx]&&this.step[this.idx].fire&&!this.step[this.idx].fired&&(this.step[this.idx].fire(),this.step[this.idx].fired=!0),!this.show||t?this.step[this.idx+1]&&this.step[this.idx+1].check()?this.toggle(this.idx+1,!0):this.toggle(0,!1):void 0},toggle:function(e,n){var r=this;return e&&(this.idx=e),setTimeout(function(){return r.show=null==n?!r.show:n,r.show?($("#dialog").fadeIn(),t.audio.menu()):$("#dialog").fadeOut()},0)}},t.scream=gajus.Scream({width:{portrait:320,landscape:480}}),e(function(){var e;t.dialog.main();try{e=t.scream.isMinimalView()}catch(n){}return t.ismin&&!e&&(document.body.scrollTop=0,$("#minimal-fix").css({display:"block"})),e&&$("#minimal-fix").css({display:"none"}),t.ismin=e},100),d=[$(document).width(),$(document).height()-50],l=d[0],p=d[1],d=[1024,576],h=d[0],f=d[1],d=1024>l?[l,576*l/1024]:[1024,576],g=d[0],m=d[1],d=576>p?[1024*p/576,p]:[1024,576],y=d[0],v=d[1],d=m>p?[y,v]:[g,v],w=d[0],x=d[1],$("#frame").css({width:w+"px",height:x+(480>x?0:10)+"px"}),$("#container").css({width:w+"px"}),$("body").css({overflow:"hidden"}),480>x&&($("#frame").css({padding:0}),$("#head").css({display:"none"}),$("#foot").css({display:"none"})),document.ontouchmove=function(e){return t.ismin?e.preventDefault():void 0},t.audio={s:{},buf:{},names:["amb","click","count1","count2","blop","die","menu","sel","dindon","born","click2","bk"],reset:function(){var t,e,n,r,i=[];for(t=0,n=(e=this.names).length;n>t;++t)r=e[t],i.push(this.s[r].pause());return i},n:{},bkt:0,player:function(t){var e,n=this;return e=function(r){var i;if(n.buf[t])return n.n[t]&&n.n[t].disconnect(),n.n[t]=i=n.context.createBufferSource(),i.buffer=n.buf[t],i.connect(n.context.destination),e.pausetime&&(r=e.pausetime-e.starttime,delete e.pausetime),e.starttime=parseInt((new Date).getTime()/1e3)-(null!=r?r:0),null!=r?i.start(0,r):i.start(0),"bk"===t?n.bkt=parseInt((new Date).getTime()/1e3):void 0},e.pause=function(){return n.n[t].stop(),e.pausetime=parseInt((new Date).getTime()/1e3)},e},load:function(e,r){var i,a=this;return i=new XMLHttpRequest,i.open("GET",r,!0),i.responseType="arraybuffer",i.onload=function(){return a.context.decodeAudioData(i.response,function(r){return a.buf[e]=r,setTimeout(function(){return t.$apply(function(){var e;return t.progress=parseInt(100*function(){var t=[];for(e in this.buf)t.push(e);return t}.call(a).length/a.names.length),t.progress>=100?n(function(){return t.loading=!1},500):void 0})},500)},function(){return console.log("fail")})},i.send()},init:function(){function e(){}function n(){}function r(){}var i,a,o,s,u,c,d=[];if(i=window.AudioContext||window.webkitAudioContext,!i){for(a=0,s=(o=this.names).length;s>a;++a)u=o[a],this[u]=e,this[u].pause=n,this.s[u]={pause:r};return t.progress=100,void(t.loading=!1)}for(this.context=new i,a=0,s=(o=this.names).length;s>a;++a)u=o[a],c=this.s[u]=new Audio,c.src="snd/"+u+".mp3",this[u]=this.player(u),d.push(this.load(u,"snd/"+u+".mp3"));return d}},t.progress=0,t.loading=!0,t.audio.init()})),mouse={down:function(t){return angular.element("#wrapper").scope().mouse.down(t)},up:function(t){return angular.element("#wrapper").scope().mouse.up(t)}};
